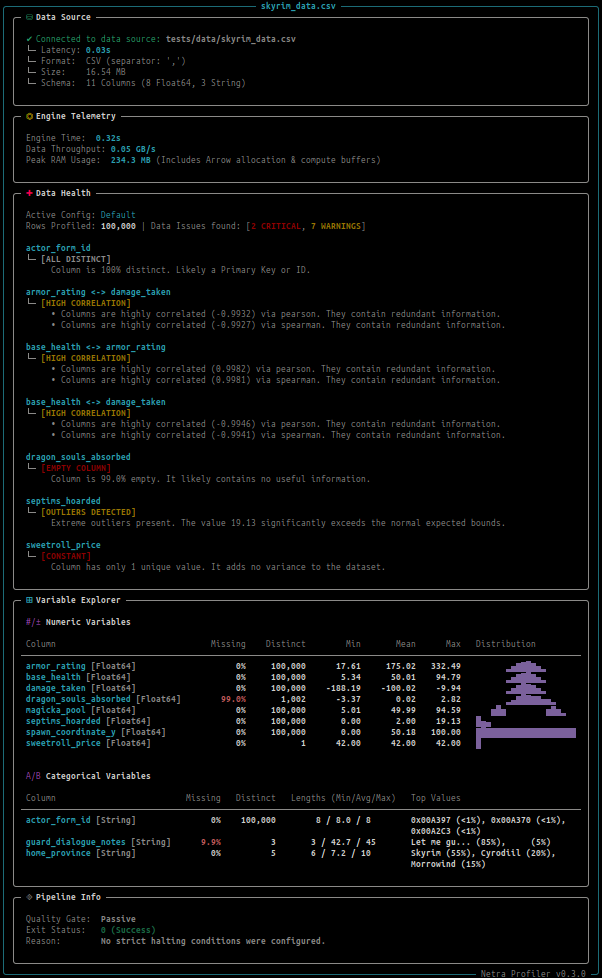
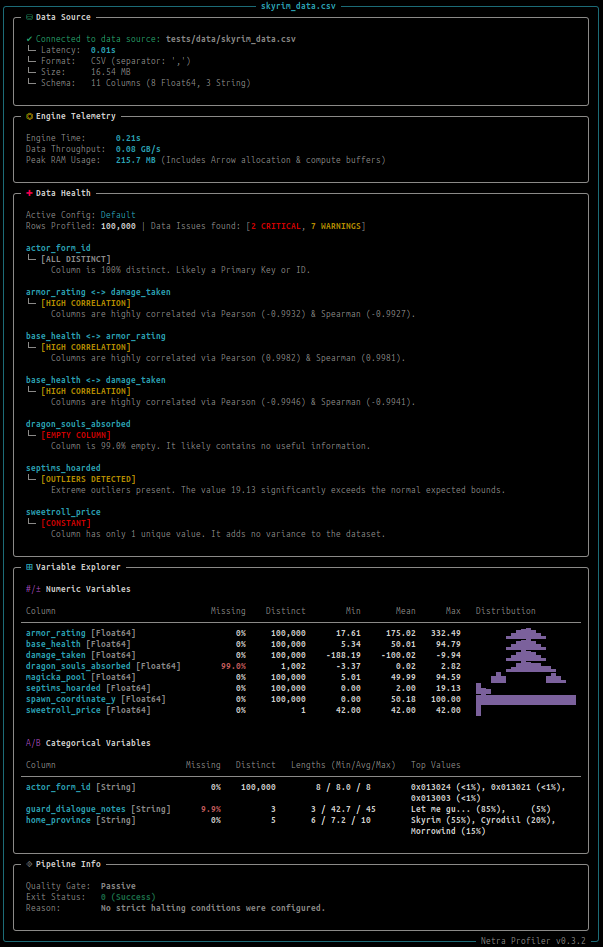
style(cli): changes to cli text and formatting
Key changes:
- cli: Merged the HIGH CORRELATION alert messages into a single line
- cli: Cleaned up the formatting and minor changes to CLI color
- docs: Minor README tweaks and added buttons at the top
- docs: Updated the CLI Showcase image to the latest version

Changed region(s): [[0.0, 0.0, 1.0, 1.0]]

diff --git a/src/netra_profiler/cli/console.py b/src/netra_profiler/cli/console.py
@@ -215,10 +215,10 @@ class NetraCLIRenderer:
             f"[value]{file_path}[/value]"
         )
         grid.add_row(success_msg)
-        grid.add_row(f" └─ Latency: [not dim][brand]{latency_string}[/brand][/]")
-        grid.add_row(f" └─ Format:  {file_type}")
-        grid.add_row(f" └─ Size:    {file_size}")
-        grid.add_row(f" └─ Schema:  {columns} Columns ({schema_info})")
+        grid.add_row(f" └─ Latency:  [not dim][brand]{latency_string}[/brand][/]")
+        grid.add_row(f" └─ Format:   {file_type}")
+        grid.add_row(f" └─ Size:     {file_size}")
+        grid.add_row(f" └─ Schema:   {columns} Columns ({schema_info})")
 
         self._data_source_panel = Panel(
             grid,
@@ -267,10 +267,10 @@ class NetraCLIRenderer:
             "< 0.01s" if engine_time < EXECUTION_TIME_THRESHOLD else f"{engine_time:.2f}s"
         )
 
-        grid.add_row(f" Engine Time:  [not dim][brand]{engine_time_string}[/brand][/]")
-        grid.add_row(f" Data Throughput: [not dim][brand]{throughput_gb_s:.2f} GB/s[/brand][/]")
+        grid.add_row(f" Engine Time:      [not dim][brand]{engine_time_string}[/brand][/]")
+        grid.add_row(f" Data Throughput:  [not dim][brand]{throughput_gb_s:.2f} GB/s[/brand][/]")
         grid.add_row(
-            f" Peak RAM Usage:  [not dim][brand]{peak_ram_usage:.1f} MB[/brand][/] "
+            f" Peak RAM Usage:   [not dim][brand]{peak_ram_usage:.1f} MB[/brand][/] "
             "[muted](Includes Arrow allocation & compute buffers)[/muted]"
         )
 
@@ -306,10 +306,10 @@ class NetraCLIRenderer:
 
         issues_count_parts = []
         if critical_alerts_count > 0:
-            issues_count_parts.append(f"[bold #8F0000]{critical_alerts_count} CRITICAL[/]")
+            issues_count_parts.append(f"[bold #CF0000]{critical_alerts_count} CRITICAL[/]")
         if warning_alerts_count > 0:
             s = "S" if warning_alerts_count > 1 else ""
-            issues_count_parts.append(f"[bold #997602]{warning_alerts_count} WARNING{s}[/]")
+            issues_count_parts.append(f"[bold #B58C00]{warning_alerts_count} WARNING{s}[/]")
 
         joined_issues_count = "[muted],[/muted] ".join(issues_count_parts)
         issues_count_string = (
@@ -320,10 +320,42 @@ class NetraCLIRenderer:
     def _get_alert_badge(self, alert_level: str, alert_type: str) -> str:
         """Returns the color-coded alert badge based on alert severity."""
         if alert_level == "CRITICAL":
-            return f"[bold #8F0000]\\[{alert_type}][/]"
+            return f"[bold #CF0000]\\[{alert_type}][/]"  # #8F0000
         elif alert_level == "WARNING":
-            return f"[bold #997602]\\[{alert_type}][/]"
+            return f"[bold #B58C00]\\[{alert_type}][/]"  # #997602
         return f"[bold #8C8C8C]\\[{alert_type}][/]"
+
+    def _format_alert_messages(
+        self, alert_type: str, alert_objects: list[DiagnosticAlert]
+    ) -> list[str]:
+        """
+        Formats alert messages, merging specific types like HIGH_CORRELATION
+        into a single, clean UI string to prevent terminal clutter.
+        """
+        if alert_type != "HIGH_CORRELATION":
+            return [a["message"] for a in alert_objects]
+
+        pearson_value = None
+        spearman_value = None
+
+        for alert_object in alert_objects:
+            alert_message = alert_object.get("message", "").lower()
+            if "pearson" in alert_message:
+                pearson_value = alert_object.get("value")
+            elif "spearman" in alert_message:
+                spearman_value = alert_object.get("value")
+
+        correlation_values_text = []
+        if pearson_value is not None:
+            correlation_values_text.append(f"Pearson ({pearson_value:.4f})")
+        if spearman_value is not None:
+            correlation_values_text.append(f"Spearman ({spearman_value:.4f})")
+
+        if correlation_values_text:
+            return [f"Columns are highly correlated via {' & '.join(correlation_values_text)}."]
+
+        # Fallback if parsing fails
+        return [a["message"] for a in alert_objects]
 
     def _render_data_health_panel(
         self,
@@ -378,19 +410,18 @@ class NetraCLIRenderer:
                         continue
                     seen_types.add(alert_type)
 
-                    # Gather all messages for this specific alert type
-                    messages = [
-                        alert["message"] for alert in column_alerts if alert["type"] == alert_type
-                    ]
+                    # Gather all alert objects for this specific alert type
+                    alert_objects = [a for a in column_alerts if a["type"] == alert_type]
 
+                    messages = self._format_alert_messages(alert_type, alert_objects)
                     badge = self._get_alert_badge(alert["level"], alert_type_for_display)
 
                     grid.add_row(f" [muted]└─[/muted] {badge}")
 
-                    for msg in messages:
+                    for message in messages:
                         # We use bullet points if there are multiple alerts to create a clean list
                         prefix = "• " if len(messages) > 1 else ""
-                        grid.add_row(f"      [muted]{prefix}{msg}[/muted]")
+                        grid.add_row(f"      [muted]{prefix}{message}[/muted]")
 
         if config_warnings:
             grid.add_row("")

diff --git a/src/netra_profiler/cli/main.py b/src/netra_profiler/cli/main.py
@@ -177,10 +177,13 @@ def _evaluate_pipeline_context(
             s = "S" if warning_alerts_count > 1 else ""
             parts.append(f"{warning_alerts_count} WARNING{s}")
         if critical_alerts_count > 0:
-            parts.append(f"{critical_alerts_count} CRITICAL")
+            s = "s" if critical_alerts_count > 1 else ""
+            parts.append(f"{critical_alerts_count} CRITICAL quality issue{s}.")
 
         anomaly_str = " and ".join(parts)
-        reason = f"Halted due to {anomaly_str} quality issues."
+        reason = f"Halted due to {anomaly_str}"
+    elif fail_on_critical and critical_alerts_count == 0:
+        reason = "No CRITICAL data quality issues found."
     else:
         reason = "No data quality issues found."
 

diff --git a/README.md b/README.md
@@ -1,10 +1,18 @@
 # Netra Profiler
 
+[![PyPI version](https://img.shields.io/pypi/v/netra-profiler.svg?color=blue)](https://pypi.org/project/netra-profiler/)
+[![Downloads](https://static.pepy.tech/badge/netra-profiler)](https://pepy.tech/project/netra-profiler)
+[![Python Versions](https://img.shields.io/pypi/pyversions/netra-profiler.svg)](https://pypi.org/project/netra-profiler/)
+[![License](https://img.shields.io/badge/License-MIT-green.svg)](https://opensource.org/licenses/MIT)
+[![Polars](https://img.shields.io/badge/Powered%20by-Polars-cd792c.svg)](https://github.com/pola-rs/polars)
+[![CI/CD](https://github.com/netrabase/netra-profiler/actions/workflows/ci.yaml/badge.svg)](https://github.com/netrabase/netra-profiler/actions)
+[![PRs Welcome](https://img.shields.io/badge/PRs-welcome-brightgreen.svg?style=flat)](http://makeapullrequest.com)
+
 ### High-performance profiling and data quality tool built with Polars
 
-Netra Profiler is a next-generation data profiling tool and diagnostic engine built on top of [Polars](https://github.com/pola-rs/polars). Designed to operate at the speed of your disk I/O, it leverages Polars' Rust-based query optimizer and zero-copy Apache Arrow memory model to maximize the profiling capabilities of your local hardware. Netra processes massive datasets with predictable, linear RAM usage, eliminating the sudden memory spikes and crashes associated with traditional Python tools.
+Netra Profiler is a high-performance data profiling tool and diagnostic engine built on top of [Polars](https://github.com/pola-rs/polars). It maximizes single-node hardware utilization by leveraging Polars' Rust-based query optimizer and columnar Apache Arrow memory model.
 
-The profiler ships with a comprehensive diagnostic engine to detect column-wise data quality issues early in your analysis or modeling workflows, such as high zeros/null count, high cardinality, data skew and more. The tool includes a detailed, zero-configuration CLI for quickly profiling your CSV, JSON, Arrow/IPC or Parquet files.
+The profiler ships with a configurable diagnostic engine to detect data quality issues in your EDA or ELT workflows. It automatically flags anomalies like extreme zero-inflation, high cardinality, severe data skew, and corrupted primary keys. Netra includes an information-dense, zero-configuration CLI designed to instantly profile your CSV, JSON, IPC/Arrow, and Parquet files directly from the terminal.
 
 ## Performance Benchmarks
 
@@ -135,12 +143,12 @@ Because the core engine of `netra-profiler` is built entirely on the Polars Lazy
 | **Categorical / Text** | Min / Max (Lexicographical) | Strings, Categoricals, Enums | ✅ Active |
 | | String Lengths (Min, Max, Mean) | Strings, Categoricals, Enums | ✅ Active |
 | | Top-K Frequent Values | Strings, Categoricals, Enums | ✅ Active |
-| | Regex / Pattern Matching | Strings | 🚧 Planned |
-| **Temporal** | Min, Max, Span | Datetime, Date | 🚧 Planned |
-| | Distribution by Time/Day | Datetime, Date | 🚧 Planned |
+| | Regex / Pattern Matching | Strings | 🔮 Future |
+| **Temporal** | Min, Max, Span | Datetime, Date | 🔮 Future |
+| | Distribution by Time/Day | Datetime, Date | 🔮 Future |
 | **Multivariate** | Pearson Correlation Matrix | Integers, Floats | ✅ Active |
 | | Spearman Rank Correlation | Integers, Floats | ✅ Active |
-| | Cramer's V (Categorical) | Strings, Categoricals | 🚧 Planned |
+| | Cramer's V (Categorical) | Strings, Categoricals | 🔮 Future |
 | **Complex Types** | Automatic Struct Flattening | Structs | ✅ Active |
 | | Array / List Length Distributions | Lists, Arrays | ✅ Active |
 
@@ -218,7 +226,7 @@ if critical_issues:
 
 ### 3. Data Quality Rules
 
-The rules for each column are resolved using a cascading method, where global rules are overridden by column-specific rules. If a check is too noisy for your dataset or analysis, you can explicitly disable it by setting its threshold to `false` or `null`.
+The rules for each column are resolved using a cascading method, where global rules are overridden by column-specific rules. If a check is too noisy for your dataset or analysis, you can explicitly disable it by setting its threshold to `false`.
 
 To configure the data quality engine, use a `netra_config.yaml` file:
 ```yaml
